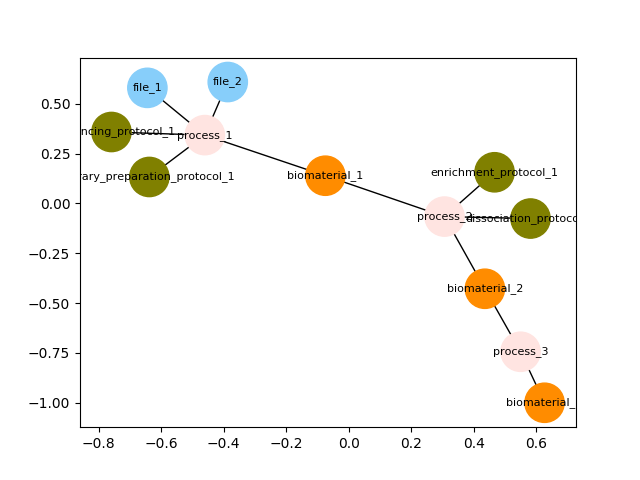
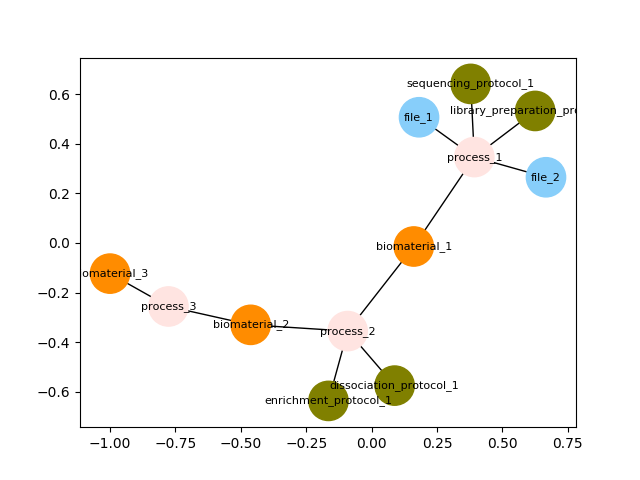
added ability to label with special entity name

diff --git a/graph_diff.py b/graph_diff.py
@@ -436,6 +436,7 @@ def save_plot_with_filename(filename):
 		graph = load_graph_networkx(data)
 		G = graph[0]
 		node_names = graph[1]
+		labels = {}
 
 		node_color = []
 		for node in G.nodes(data=True):
@@ -449,10 +450,15 @@ def save_plot_with_filename(filename):
 			else:
 				node_color.append('olive')
 
+			unique_name = node[1]['unique_name']
+			entity_name = node[1]['entity_name']
+			labels[unique_name] = entity_name
+
 		A = G.to_undirected()  # can only get edges to size correctly with an undirected graph for some reason
 		print('graph {} has {} nodes'.format(filename, A.number_of_nodes()))
-		# nx.draw(A, with_labels=True, node_color=node_color, node_size=800, font_size=8)
-		nx.draw_networkx(A, with_labels=True, node_color=node_color, node_size=800, font_size=8)
+		print(node_names)
+		# nx.draw_networkx(A, with_labels=True, node_color=node_color, node_size=800, font_size=8) # use to visualise with unique labels
+		nx.draw_networkx(A, labels=labels, node_color=node_color, node_size=800, font_size=8)
 		plt.savefig(filename + '.png')
 		plt.gcf().clear()
 
@@ -513,29 +519,5 @@ if __name__ == '__main__':
 		if arguments.plot:
 			for filename in feature_list_unique:
 				save_plot_with_filename(filename)
-
-
-
-
-
-
-
-
-
-
-
-			# print('Saving {} unique graphs to file for project {}...'.format(len(feature_list_unique), path))
-			# for filename in feature_list_unique:
-			# 	with open(filename) as fs:
-			# 		data = json.load(fs)
-			# 		graph = load_graph_networkx(data)
-			# 		G = graph[0]
-			# 		node_names = graph[1]
-			# 		plot_graph(G, node_names, filename, arguments.layout, True)
-
-
-# save_report(feature_list, assumption_list,indir) #TODO
-
-
 
 
